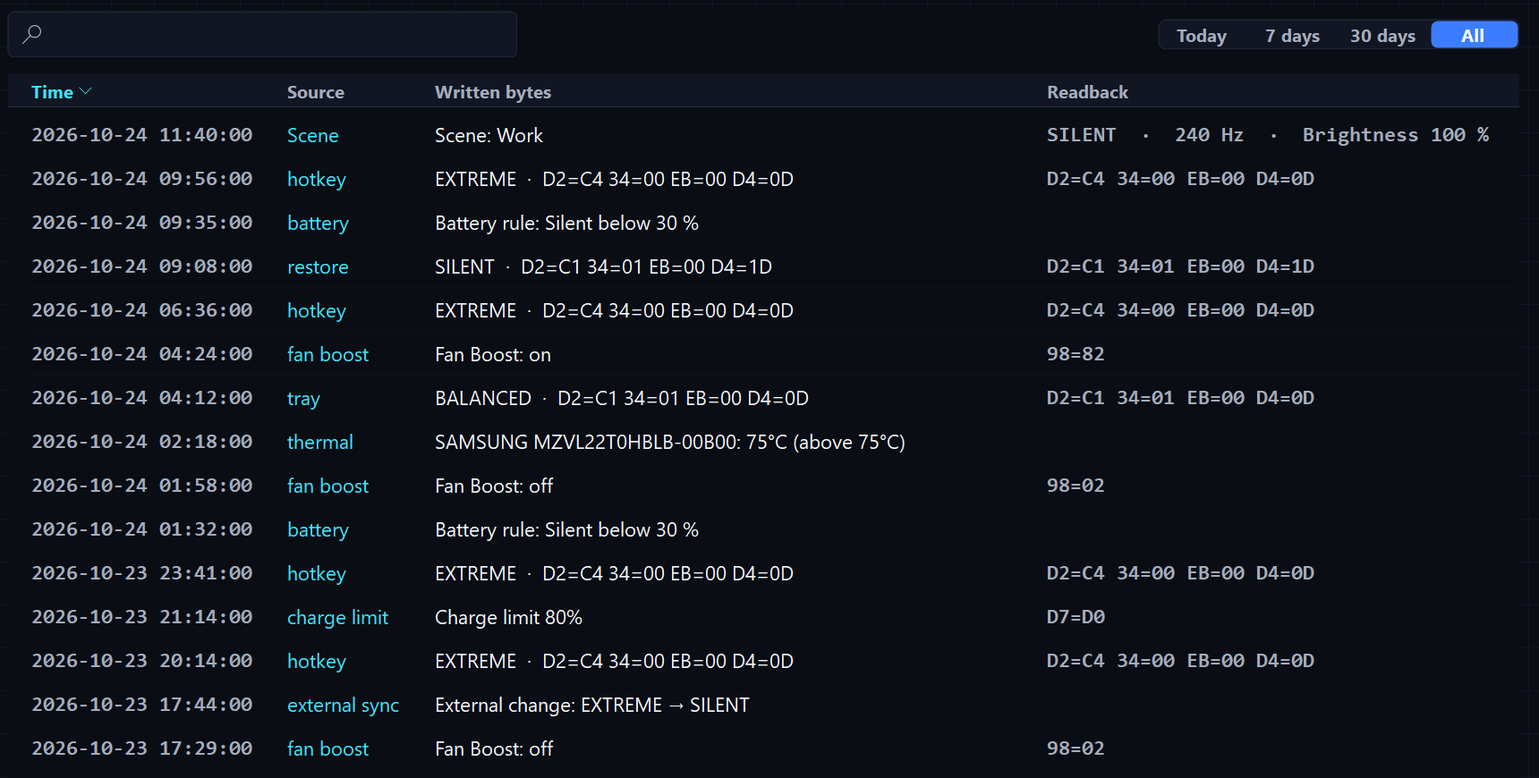
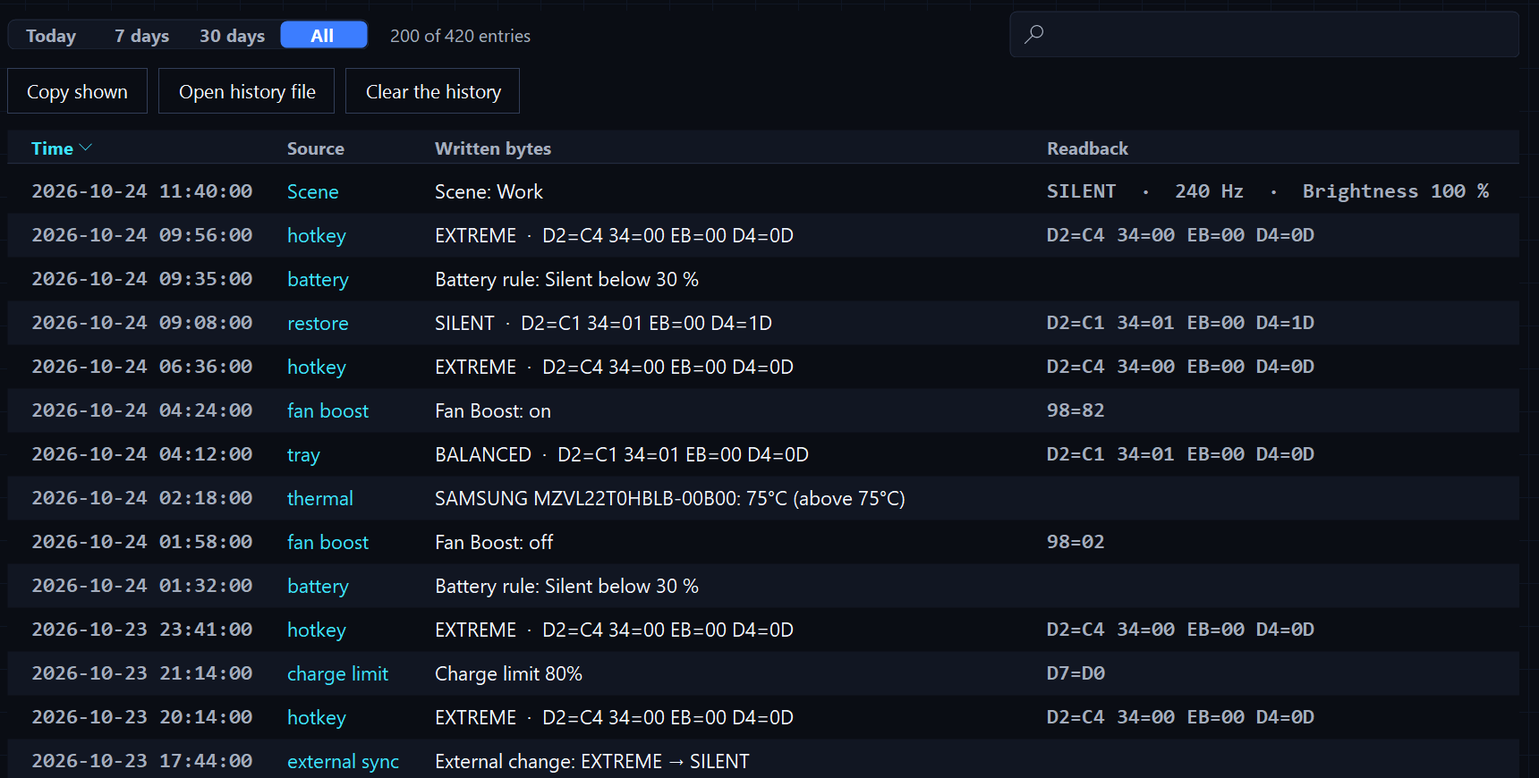
Change history: the range, the count and the search above the table, the buttons under them, rows in two tints, the next 200 rows on their own when scrolled to the last one, Clear with a copy first
- HistoryView: row 1 = range, "200 of 1532 entries", search on the right; row 2 = Copy shown, Open history file, Clear the history; rows alternate Surface/Card tints; the paint of the last shown row queues LoadMore after the paint (one request per batch); Show 200 older is gone.
- ChangeLog.ClearWithArchive: copies history-*.log and changelog.json to backups\history-<moment>\, then deletes the files and empties the list; a copy that fails clears nothing. The view asks with a card first and reports the folder.
- 3 new texts (hist_clear, hist_clear_q, hist_cleared) in 15 languages, hist_older removed; harness E31; preview-tool benchmark calls LoadMore; TECHNICAL §24, CHANGELOG, docs/images/status-change-log.png refreshed.

diff --git a/UI/Controls/HistoryView.cs b/UI/Controls/HistoryView.cs
@@ -4,12 +4,14 @@ namespace GhostDeck;
 
 /// <summary>
 /// The change history as a table the app draws itself (Status → Change log): every entry ever
-/// written (the in-app list plus the history files of all years, <see cref="ChangeLog.Everything"/>),
-/// a search field that filters as you type, a time range, a click on a column header to sort,
-/// and rows that light up under the mouse like the Models tab. The newest 200 rows show; "Show
-/// 200 older" adds the next 200, so a long history never draws thousands of rows at once and
-/// there are no pages to turn. Copy shown copies the rows on screen; Open history file opens
-/// the year's file. The control reports its height to the page, which scrolls as usual.
+/// written (the in-app list plus the history files of all years, <see cref="ChangeLog.Everything"/>).
+/// Everything you act on sits above the table: the time range, the count, the search field that
+/// filters as you type (row 1), then Copy shown, Open history file and Clear (row 2). Rows alternate
+/// two tints and light up under the mouse like the Models tab. The newest 200 rows draw first and
+/// the next 200 come in on their own when the page is scrolled to the last row, so a long history
+/// never draws thousands of rows at once and there are no pages to turn. Clear copies the history
+/// files and the in-app list to the app's backups folder first. The control reports its height
+/// to the page, which scrolls as usual.
 /// </summary>
 public sealed class HistoryView : Control
 {
@@ -23,7 +25,7 @@ public sealed class HistoryView : Control
 
     private readonly SearchBox _search = new();
     private readonly SegControl _range;
-    private readonly Button _older = new(), _copy = new(), _file = new();
+    private readonly Button _copy = new(), _file = new(), _clear = new();
     private List<LogEntry> _all = new();    // everything, newest first
     private List<LogEntry> _rows = new();   // after the range, the filter and the sort
     private string[][] _cells = Array.Empty<string[]>();   // the shown rows as text
@@ -32,8 +34,9 @@ public sealed class HistoryView : Control
     private bool _sortAsc;                  // time: newest first by default
     private int _hover = -1, _hoverHead = -1;
     private int[] _left = new int[4], _width = new int[4];
-    private int _headTop, _rowsTop, _rowH, _footTop, _height;
-    private bool _dirty = true;
+    private int _headTop, _rowsTop, _rowH, _height;
+    private Rectangle _countRect;
+    private bool _dirty = true, _moreQueued;
 
     /// <summary>Raised when the rows (and so the height) changed; the page lays itself out again.</summary>
     public event Action? HeightChanged;
@@ -44,10 +47,10 @@ public sealed class HistoryView : Control
         _range = new SegControl(RangeLabels(), 3) { Size = new Size(300, 30) };   // dpi-ok: SegControl's MinimumSize grows it to its labels
         _range.SelectedChanged += _ => Refilter();
         _search.Box.TextChanged += (_, _) => Refilter();
-        foreach (var b in new[] { _older, _copy, _file }) { b.AutoSize = true; b.Padding = new Padding(10, 4, 10, 4); Ui.StyleGhost(b); Controls.Add(b); }
-        _older.Click += (_, _) => { _shown += Step; Relayout(); HeightChanged?.Invoke(); Invalidate(); };
+        foreach (var b in new[] { _copy, _file, _clear }) { b.AutoSize = true; b.Padding = new Padding(10, 4, 10, 4); Ui.StyleGhost(b); Controls.Add(b); }
         _copy.Click += (_, _) => Ui.CopyText(ShownText());
         _file.Click += (_, _) => OpenFile();
+        _clear.Click += (_, _) => ClearHistory();
         Controls.Add(_search);
         Controls.Add(_range);
         SetLabels();
@@ -61,9 +64,9 @@ public sealed class HistoryView : Control
     public void SetLabels()
     {
         _range.SetItems(RangeLabels(), _range.Selected);
-        _older.Text = Lang.T("hist_older");
         _copy.Text = Lang.T("hist_copy");
         _file.Text = Lang.T("log_history_file");
+        _clear.Text = Lang.T("hist_clear");
         Refilter();
     }
 
@@ -71,7 +74,7 @@ public sealed class HistoryView : Control
     {
         BackColor = Theme.Surface;
         _search.ApplyTheme();
-        foreach (var b in new[] { _older, _copy, _file }) Ui.StyleGhost(b);
+        foreach (var b in new[] { _copy, _file, _clear }) Ui.StyleGhost(b);
         Invalidate();
     }
 
@@ -79,13 +82,16 @@ public sealed class HistoryView : Control
 
     /// <summary>
     /// Something was logged. On screen: the new entries are merged in from the in-app list (no file
-    /// read, no re-parse); off screen: everything is read again at the next show.
+    /// read, no re-parse); off screen: everything is read again at the next show. An emptied list
+    /// (Clear) reads everything again, since entries went away.
     /// </summary>
     public void MarkDirty()
     {
         if (!Visible) { _dirty = true; return; }
+        var recent = ChangeLog.Recent(20);
+        if (recent.Count == 0 && _all.Count > 0) { Reload(); return; }
         bool added = false;
-        foreach (var e in ChangeLog.Recent(20))
+        foreach (var e in recent)
         {
             var k = (e.Time, e.Source, e.Detail);
             if (_keys.Add(k)) { _all.Insert(0, e); added = true; }
@@ -137,7 +143,18 @@ public sealed class HistoryView : Control
 
     private static bool Has(string s, string q) => s.Contains(q, StringComparison.CurrentCultureIgnoreCase);
 
-    private int Visible_() => Math.Min(_shown, _rows.Count);
+    private int Shown => Math.Min(_shown, _rows.Count);
+
+    /// <summary>The next 200 rows (the page scrolled to the last one, or a tool asks).</summary>
+    public void LoadMore()
+    {
+        _moreQueued = false;
+        if (_shown >= _rows.Count) return;
+        _shown += Step;
+        Relayout();
+        HeightChanged?.Invoke();
+        Invalidate();
+    }
 
     /// <summary>Height the control needs for what it shows; the page sizes it to this.</summary>
     public int PreferredHeight => _height;
@@ -145,18 +162,43 @@ public sealed class HistoryView : Control
     private void Relayout()
     {
         int w = Math.Max(S(300), Width);
-        int top = 0;
-        // search left, range right, on one row; the range goes under the search on a narrow page
-        int searchH = _search.PreferredHeight;
+        int gap = S(8);
+        // row 1: the range on the left, the count beside it, the search on the right
         int rangeW = _range.Width, rangeH = _range.Height;
-        int searchW = Math.Min(S(380), w - rangeW - S(16));
-        if (searchW < S(200)) { searchW = Math.Min(S(380), w); _search.SetBounds(0, top, searchW, searchH); top += searchH + S(8); _range.Location = new Point(0, top); top += rangeH + S(12); }
-        else { _search.SetBounds(0, top, searchW, searchH); _range.Location = new Point(w - rangeW, top + (searchH - rangeH) / 2); top += Math.Max(searchH, rangeH) + S(12); }
+        int searchH = _search.PreferredHeight;
+        int searchW = Math.Min(S(380), Math.Max(S(200), w - rangeW - S(200)));
+        int row1H = Math.Max(rangeH, searchH);
+        int top = 0;
+        if (rangeW + S(200) + searchW > w)
+        {
+            // narrow: the search goes under the range, full width
+            _range.Location = new Point(0, top);
+            _countRect = new Rectangle(rangeW + gap, top, Math.Max(10, w - rangeW - gap), rangeH);
+            top += rangeH + gap;
+            _search.SetBounds(0, top, w, searchH);
+            top += searchH + gap;
+        }
+        else
+        {
+            _range.Location = new Point(0, top + (row1H - rangeH) / 2);
+            _search.SetBounds(w - searchW, top + (row1H - searchH) / 2, searchW, searchH);
+            _countRect = new Rectangle(rangeW + S(16), top, Math.Max(10, w - searchW - rangeW - S(24)), row1H);
+            top += row1H + gap;
+        }
+        // row 2: the buttons, left to right, wrapping on a narrow page
+        int bx = 0, by = top, lineH = _copy.Height;
+        foreach (var b in new[] { _copy, _file, _clear })
+        {
+            if (bx > 0 && bx + b.Width > w) { bx = 0; by += lineH + gap; }
+            b.Location = new Point(bx, by);
+            bx += b.Width + gap;
+        }
+        top = by + lineH + S(12);
 
         _headTop = top;
         _rowH = Cell.Height + S(14);
         _rowsTop = _headTop + Head.Height + S(12);
-        int n = Visible_();
+        int n = Shown;
         _cells = new string[n][];
         for (int i = 0; i < n; i++)
         {
@@ -165,19 +207,7 @@ public sealed class HistoryView : Control
         }
         Columns(w);
         int bodyH = n == 0 ? Cell.Height + S(24) : n * _rowH;
-        _footTop = _rowsTop + bodyH + S(12);
-        // footer: the count on the left, the buttons on the right (Show older only while there is more)
-        _older.Visible = _rows.Count > n;
-        int bx = w;
-        foreach (var b in new[] { _file, _copy, _older })
-        {
-            if (!b.Visible) continue;
-            bx -= b.Width;
-            b.Location = new Point(bx, _footTop);
-            bx -= S(8);
-        }
-        int footH = Math.Max(_copy.Height, Note.Height);
-        _height = _footTop + footH + S(8);
+        _height = _rowsTop + bodyH + S(8);
     }
 
     // Columns follow their content, as the change-log grid on Status did (#172): time, source and
@@ -186,8 +216,8 @@ public sealed class HistoryView : Control
     private void Columns(int w)
     {
         string[] heads = { Lang.T("log_col_time"), Lang.T("log_col_source"), Lang.T("log_col_detail"), Lang.T("log_col_result") };
-        int gap = S(10), need0 = 0, need1 = 0, need3 = 0;
-        need0 = TextRenderer.MeasureText(heads[0], Head).Width; need1 = TextRenderer.MeasureText(heads[1], Head).Width; need3 = TextRenderer.MeasureText(heads[3], Head).Width;
+        int gap = S(10);
+        int need0 = TextRenderer.MeasureText(heads[0], Head).Width, need1 = TextRenderer.MeasureText(heads[1], Head).Width, need3 = TextRenderer.MeasureText(heads[3], Head).Width;
         foreach (var r in _cells)
         {
             need0 = Math.Max(need0, TextRenderer.MeasureText(r[0], Mono).Width);
@@ -222,6 +252,20 @@ public sealed class HistoryView : Control
         catch (Exception ex) { AppLifecycle.Note("history file could not be opened: " + ex.Message); }
     }
 
+    private void ClearHistory()
+    {
+        bool go = false;
+        using (var ask = new GhostCardForm("//LOG", Lang.T("log_title"), Lang.T("hist_clear_q"), Lang.T("hist_clear"), Lang.T("gen_cancel"), () => go = true))
+            ask.ShowOver(FindForm());
+        if (!go) return;
+        string? dir = ChangeLog.ClearWithArchive();
+        Reload();
+        using var done = new GhostCardForm("//LOG", Lang.T("log_title"),
+            dir != null ? string.Format(Lang.T("hist_cleared"), dir) : string.Format(Lang.T("bk_err"), Lang.T("hist_clear")),
+            Lang.T("set_close"), "", () => { });
+        done.ShowOver(FindForm());
+    }
+
     protected override void OnLayout(LayoutEventArgs levent) { base.OnLayout(levent); Relayout(); }
 
     private Rectangle RowRect(int i) => new(0, _rowsTop + i * _rowH, Width, _rowH);
@@ -231,7 +275,7 @@ public sealed class HistoryView : Control
     {
         base.OnMouseMove(e);
         int row = -1, head = -1;
-        if (e.Y >= _rowsTop && e.Y < _rowsTop + Visible_() * _rowH) row = (e.Y - _rowsTop) / _rowH;
+        if (e.Y >= _rowsTop && e.Y < _rowsTop + Shown * _rowH) row = (e.Y - _rowsTop) / _rowH;
         else if (e.Y >= _headTop && e.Y < _headTop + Head.Height + S(8)) for (int c = 0; c < 4; c++) if (HeadRect(c).Contains(e.Location)) head = c;
         if (row != _hover) { int old = _hover; _hover = row; if (old >= 0) Invalidate(RowRect(old)); if (row >= 0) Invalidate(RowRect(row)); }
         if (head != _hoverHead) { _hoverHead = head; Invalidate(new Rectangle(0, _headTop, Width, Head.Height + S(8))); }
@@ -259,6 +303,10 @@ public sealed class HistoryView : Control
         var g = e.Graphics;
         g.Clear(Theme.Surface);
         g.SmoothingMode = SmoothingMode.AntiAlias;
+        int n = Shown;
+        // the count beside the range: "200 of 1532 entries" says there is more to come
+        TextRenderer.DrawText(g, string.Format(Lang.T("hist_count"), n, _rows.Count), Note, _countRect, Theme.Muted,
+            TextFormatFlags.Left | TextFormatFlags.VerticalCenter | TextFormatFlags.EndEllipsis | TextFormatFlags.NoPadding);   // dpi-ok: a short count in the room between the range and the search; it yields on a narrow page
         string[] heads = { Lang.T("log_col_time"), Lang.T("log_col_source"), Lang.T("log_col_detail"), Lang.T("log_col_result") };
         int headH = Head.Height + S(8);
         // header: a flat band, the sorted column in accent with a small arrow
@@ -277,23 +325,25 @@ public sealed class HistoryView : Control
                 Ui.CenterGlyph(g, _sortAsc ? "" : "", Glyph, col, new RectangleF(r.X + S(4) + tw + S(2), r.Y, arrowW, r.Height));
             }
         }
-        int n = Visible_();
         if (n == 0)
         {
             TextRenderer.DrawText(g, Lang.T("hist_none"), Cell, new Rectangle(0, _rowsTop, Width, Cell.Height + S(24)), Theme.Muted,
                 TextFormatFlags.HorizontalCenter | TextFormatFlags.VerticalCenter | TextFormatFlags.NoPadding);   // dpi-ok: one centred line, the box is a font height plus air
         }
         var clip = e.ClipRectangle;
+        bool lastRowPainted = false;
         for (int i = 0; i < n; i++)
         {
             var rr = RowRect(i);
             if (rr.Bottom < clip.Top || rr.Top > clip.Bottom) continue;
+            if (i == n - 1) lastRowPainted = true;
+            // two tints in turn, the hovered row lit with the accent bar
+            if (i % 2 == 1) { using var b = new SolidBrush(Theme.Card); g.FillRectangle(b, rr); }
             if (i == _hover)
             {
                 using (var b = new SolidBrush(Color.FromArgb(Theme.Dark ? 14 : 10, Theme.Text))) g.FillRectangle(b, rr);
                 using (var bar = new SolidBrush(Theme.Accent)) g.FillRectangle(bar, rr.X, rr.Y, S(3), rr.Height);
             }
-            using (var p = new Pen(Color.FromArgb(Theme.Dark ? 40 : 60, Theme.Border))) g.DrawLine(p, rr.X + S(14), rr.Bottom - 1, rr.Right, rr.Bottom - 1);
             var cells = _cells[i];
             for (int c = 0; c < 4; c++)
             {
@@ -303,11 +353,12 @@ public sealed class HistoryView : Control
                     TextFormatFlags.Left | TextFormatFlags.VerticalCenter | TextFormatFlags.EndEllipsis | TextFormatFlags.NoPadding);   // dpi-ok: cells are data in columns sized to their longest text; only the detail column may end in an ellipsis when the window is narrow
             }
         }
-        // the count, left of the buttons
-        string count = string.Format(Lang.T("hist_count"), n, _rows.Count);
-        int countRight = Width;
-        foreach (var b in new[] { _file, _copy, _older }) if (b.Visible) countRight = Math.Min(countRight, b.Left);
-        TextRenderer.DrawText(g, count, Note, new Rectangle(0, _footTop, Math.Max(10, countRight - S(12)), Math.Max(_copy.Height, Note.Height)), Theme.Muted,
-            TextFormatFlags.Left | TextFormatFlags.VerticalCenter | TextFormatFlags.EndEllipsis | TextFormatFlags.NoPadding);   // dpi-ok: a short count that yields to the buttons on a narrow page
+        // The last shown row was just painted, so it is on screen: the next 200 come in on their
+        // own, after this paint (never from inside it). One request per batch.
+        if (lastRowPainted && _shown < _rows.Count && !_moreQueued && IsHandleCreated)
+        {
+            _moreQueued = true;
+            try { BeginInvoke(LoadMore); } catch { _moreQueued = false; }
+        }
     }
 }

diff --git a/Core/Lang.cs b/Core/Lang.cs
@@ -1013,10 +1013,12 @@ public static class Lang
         m["hist_7d"]         = new[] { "7 days", "7 dni", "7 Tage", "7 jours", "7 días", "7 天", "7 dias", "7 дней", "7 日間", "7일", "7 天", "7 gün", "7 ngày", "7 hari", "7 giorni" };
         m["hist_30d"]        = new[] { "30 days", "30 dni", "30 Tage", "30 jours", "30 días", "30 天", "30 dias", "30 дней", "30 日間", "30일", "30 天", "30 gün", "30 ngày", "30 hari", "30 giorni" };
         m["hist_all"]        = new[] { "All", "Wszystko", "Alle", "Tout", "Todo", "全部", "Tudo", "Все", "すべて", "전체", "全部", "Tümü", "Tất cả", "Semua", "Tutto" };
-        m["hist_older"]      = new[] { "Show 200 older", "Pokaż 200 starszych", "200 ältere anzeigen", "Afficher 200 plus anciens", "Mostrar 200 anteriores", "显示更早的 200 条", "Mostrar 200 anteriores", "Показать ещё 200", "さらに 200 件を表示", "이전 200개 표시", "顯示更早的 200 筆", "200 eski kaydı göster", "Hiện 200 mục cũ hơn", "Tampilkan 200 lebih lama", "Mostra 200 precedenti" };
         m["hist_count"]      = new[] { "{0} of {1} entries", "{0} z {1} wpisów", "{0} von {1} Einträgen", "{0} sur {1} entrées", "{0} de {1} entradas", "{1} 条中的 {0} 条", "{0} de {1} entradas", "{0} из {1} записей", "{1} 件中 {0} 件", "{1}개 중 {0}개", "{1} 筆中的 {0} 筆", "{1} kayıttan {0}", "{0} trong {1} mục", "{0} dari {1} entri", "{0} di {1} voci" };
         m["hist_copy"]       = new[] { "Copy shown", "Kopiuj widoczne", "Angezeigte kopieren", "Copier l'affichage", "Copiar lo mostrado", "复制显示的内容", "Copiar o exibido", "Копировать показанное", "表示中をコピー", "표시된 항목 복사", "複製顯示的內容", "Gösterilenleri kopyala", "Sao chép mục đang hiện", "Salin yang ditampilkan", "Copia il visibile" };
         m["hist_none"]       = new[] { "No entries match.", "Brak pasujących wpisów.", "Keine passenden Einträge.", "Aucune entrée ne correspond.", "No hay entradas que coincidan.", "没有匹配的条目。", "Nenhuma entrada corresponde.", "Нет подходящих записей.", "一致する項目はありません。", "일치하는 항목이 없습니다.", "沒有符合的項目。", "Eşleşen kayıt yok.", "Không có mục nào khớp.", "Tidak ada entri yang cocok.", "Nessuna voce corrisponde." };
+        m["hist_clear"]      = new[] { "Clear the history", "Wyczyść historię", "Verlauf leeren", "Vider l'historique", "Vaciar el historial", "清空历史", "Limpar o histórico", "Очистить историю", "履歴をクリア", "기록 지우기", "清空歷程", "Geçmişi temizle", "Xóa lịch sử", "Kosongkan riwayat", "Svuota la cronologia" };
+        m["hist_clear_q"]    = new[] { "Clear the whole history? A copy goes to the app's backups folder first.", "Wyczyścić całą historię? Najpierw jej kopia trafi do folderu kopii aplikacji.", "Den ganzen Verlauf leeren? Vorher kommt eine Kopie in den Sicherungsordner der App.", "Vider tout l'historique ? Une copie va d'abord dans le dossier des copies de l'app.", "¿Vaciar todo el historial? Antes se guarda una copia en la carpeta de copias de la app.", "要清空全部历史吗？会先将副本保存到应用的备份文件夹。", "Limpar todo o histórico? Uma cópia vai antes para a pasta de cópias do app.", "Очистить всю историю? Сначала копия попадёт в папку копий приложения.", "履歴をすべてクリアしますか？先にアプリのバックアップフォルダーへコピーを保存します。", "전체 기록을 지울까요? 먼저 앱의 백업 폴더에 복사본을 저장합니다.", "要清空全部歷程嗎？會先將副本存到應用程式的備份資料夾。", "Tüm geçmiş temizlensin mi? Önce bir kopyası uygulamanın yedek klasörüne gider.", "Xóa toàn bộ lịch sử? Một bản sao sẽ được lưu vào thư mục sao lưu của ứng dụng trước.", "Kosongkan seluruh riwayat? Salinannya disimpan dulu ke folder cadangan aplikasi.", "Svuotare tutta la cronologia? Prima una copia va nella cartella delle copie dell'app." };
+        m["hist_cleared"]    = new[] { "History cleared. The copy is in {0}.", "Historia wyczyszczona. Kopia jest w {0}.", "Verlauf geleert. Die Kopie liegt in {0}.", "Historique vidé. La copie est dans {0}.", "Historial vaciado. La copia está en {0}.", "历史已清空。副本位于 {0}。", "Histórico limpo. A cópia está em {0}.", "История очищена. Копия в {0}.", "履歴をクリアしました。コピーは {0} にあります。", "기록을 지웠습니다. 복사본은 {0}에 있습니다.", "歷程已清空。副本位於 {0}。", "Geçmiş temizlendi. Kopya {0} içinde.", "Đã xóa lịch sử. Bản sao nằm trong {0}.", "Riwayat dikosongkan. Salinannya ada di {0}.", "Cronologia svuotata. La copia è in {0}." };
         m["log_history_file"] = new[] { "Open history file", "Otwórz plik historii", "Verlaufsdatei öffnen", "Ouvrir le fichier d'historique", "Abrir archivo de historial", "打开历史文件", "Abrir arquivo de histórico", "Открыть файл истории", "履歴ファイルを開く", "기록 파일 열기", "開啟歷程檔案", "Geçmiş dosyasını aç", "Mở tệp lịch sử", "Buka berkas riwayat", "Apri il file della cronologia" };
 
         // ---- firmware-change warning ----

diff --git a/Core/ChangeLog.cs b/Core/ChangeLog.cs
@@ -101,6 +101,38 @@ public static class ChangeLog
         Changed?.Invoke();
     }
 
+    /// <summary>
+    /// Clears the history the way the owner asked for: the history files of every year and the
+    /// in-app list are copied to <c>backups\history-&lt;moment&gt;\</c> in the app folder first,
+    /// then the files are deleted and the list emptied. Returns the archive folder, or null (and a
+    /// note in the log) when the copy failed, in which case nothing is cleared.
+    /// </summary>
+    public static string? ClearWithArchive()
+    {
+        string dir = Path.Combine(AppSettings.Dir, "backups", $"history-{DateTime.Now:yyyyMMdd-HHmmss}");
+        try
+        {
+            Directory.CreateDirectory(dir);
+            var files = Directory.Exists(AppSettings.Dir) ? Directory.GetFiles(AppSettings.Dir, "history-*.log").ToList() : new List<string>();
+            lock (_lock)
+            {
+                SaveNoLock();
+                if (File.Exists(FilePath)) File.Copy(FilePath, Path.Combine(dir, "changelog.json"), overwrite: true);
+                foreach (var f in files) File.Copy(f, Path.Combine(dir, Path.GetFileName(f)), overwrite: true);
+                foreach (var f in files) File.Delete(f);
+                _items.Clear();
+                SaveNoLock();
+            }
+        }
+        catch (Exception ex)
+        {
+            AppLifecycle.Note("history not cleared, the copy failed: " + ex.Message);
+            return null;
+        }
+        Changed?.Invoke();
+        return dir;
+    }
+
     public static void Load()
     {
         try

diff --git a/docs/TECHNICAL.md b/docs/TECHNICAL.md
@@ -1006,17 +1006,22 @@ tab-separated text file per year next to it (time, source, detail, readback) tha
 trims. **Status → Change log shows all of it** (`HistoryView`, 1.42; the separate full-log window
 is gone): `ChangeLog.Everything` merges the files of every year with the in-app list (duplicates
 dropped by time + source + detail, newest first), read once per show and extended in place from
-the in-app list while on screen. The view is a table the app draws itself: a search field that
-filters as you type over all four columns, a range (today / 7 days / 30 days / all), a click on a
-column header to sort (time newest first by default, text columns A to Z), rows that light up
-under the mouse with the accent bar of the Models tab, columns sized to their longest shown cell
-(the time in full, the detail column takes the rest, the readback at most 40 %). The newest 200
-rows show and *Show 200 older* adds the next 200, so a history of thousands never draws at once
-and there are no pages; the page scrolls as usual. *Copy shown* copies the rows on screen, *Open
-history file* opens the year's file. On this sub-tab the Status canvas buffers only its title
+the in-app list while on screen. The view is a table the app draws itself. Everything you act on
+sits above it: the range (today / 7 days / 30 days / all), the count ("200 of 1532 entries", so
+it is plain that more is to come) and the search field that filters as you type over all four
+columns on the first row; *Copy shown*, *Open history file* and *Clear the history* on the second.
+A click on a column header sorts (time newest first by default, text columns A to Z); rows
+alternate two tints and light up under the mouse with the accent bar of the Models tab; columns
+are sized to their longest shown cell (the time in full, the detail column takes the rest, the
+readback at most 40 %). The newest 200 rows draw first, and when the page is scrolled to the last
+row (the paint of that row is the signal) the next 200 come in on their own, after the paint, so
+a history of thousands never draws at once and there are no pages to turn. *Clear the history*
+asks first, then `ChangeLog.ClearWithArchive` copies the history files of every year and the
+in-app list to `backups\history-<moment>\` in the app folder, deletes the files and empties the
+list; a copy that fails clears nothing. On this sub-tab the Status canvas buffers only its title
 band (168 px), not a surface as tall as the history. Measured in the preview tool with 420
 entries at 100 %: switching the sub-tab away and back 14-18 ms (median of 16 passes), a filter
-keystroke 25 ms, 200 more rows 32 ms, reading the files 0.6 ms.
+keystroke 25 ms, the next 200 rows 32 ms, reading the files 0.6 ms.
 
 **Saving.** `AppSettings.Save` writes `settings.json.tmp` and swaps it over the previous file
 (`File.Replace`, which keeps the previous one as `settings.json.bak`), so a crash, a full disk or

diff --git a/CHANGELOG.md b/CHANGELOG.md
@@ -18,12 +18,14 @@ Format loosely based on [Keep a Changelog](https://keepachangelog.com/).
   copied first; *Delete* removes one. You choose how many stay (50, 75, 100, 125 or 150); when
   there are more, the oldest are deleted and the new ones saved.
 - **The complete change history, on Status** - every entry is written to `history-<year>.log` in
-  the app folder, which the app never trims, and Status → Change log shows all of it: a search
-  field that filters as you type, a range (today, 7 days, 30 days, all), a click on a column
-  header to sort, rows that light up under the mouse, the time in full. The newest 200 rows show
-  and *Show 200 older* adds the next 200. *Copy shown* copies what is on screen, *Open history
-  file* opens the year's file. The separate "Full log" window is gone; the tray's *Change log*
-  entry opens this sub-tab.
+  the app folder, which the app never trims, and Status → Change log shows all of it: a range
+  (today, 7 days, 30 days, all), the count and a search field that filters as you type above the
+  table, a click on a column header to sort, rows in two tints that light up under the mouse, the
+  time in full. The newest 200 rows draw first and the next 200 come in on their own as you
+  scroll. *Copy shown* copies what is on screen, *Open history file* opens the year's file,
+  *Clear the history* copies everything to the app's backups folder first and then empties the
+  list and the files. The separate "Full log" window is gone; the tray's *Change log* entry
+  opens this sub-tab.
 ### Security
 - **The command-line channel has limits** - a program that connects to the running app's
   command pipe and then says nothing, never ends its line, floods it or stops reading the answer
